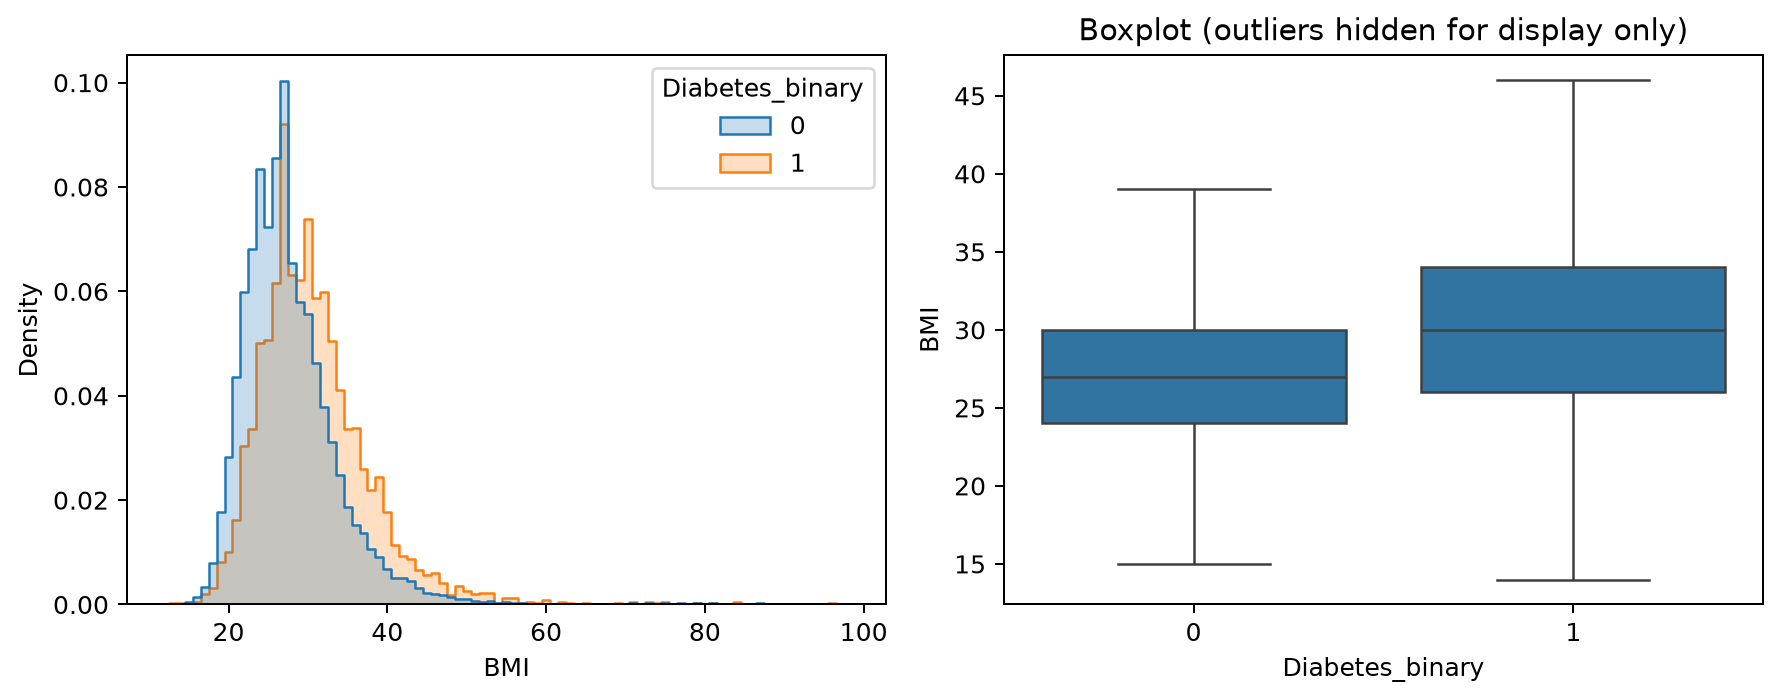
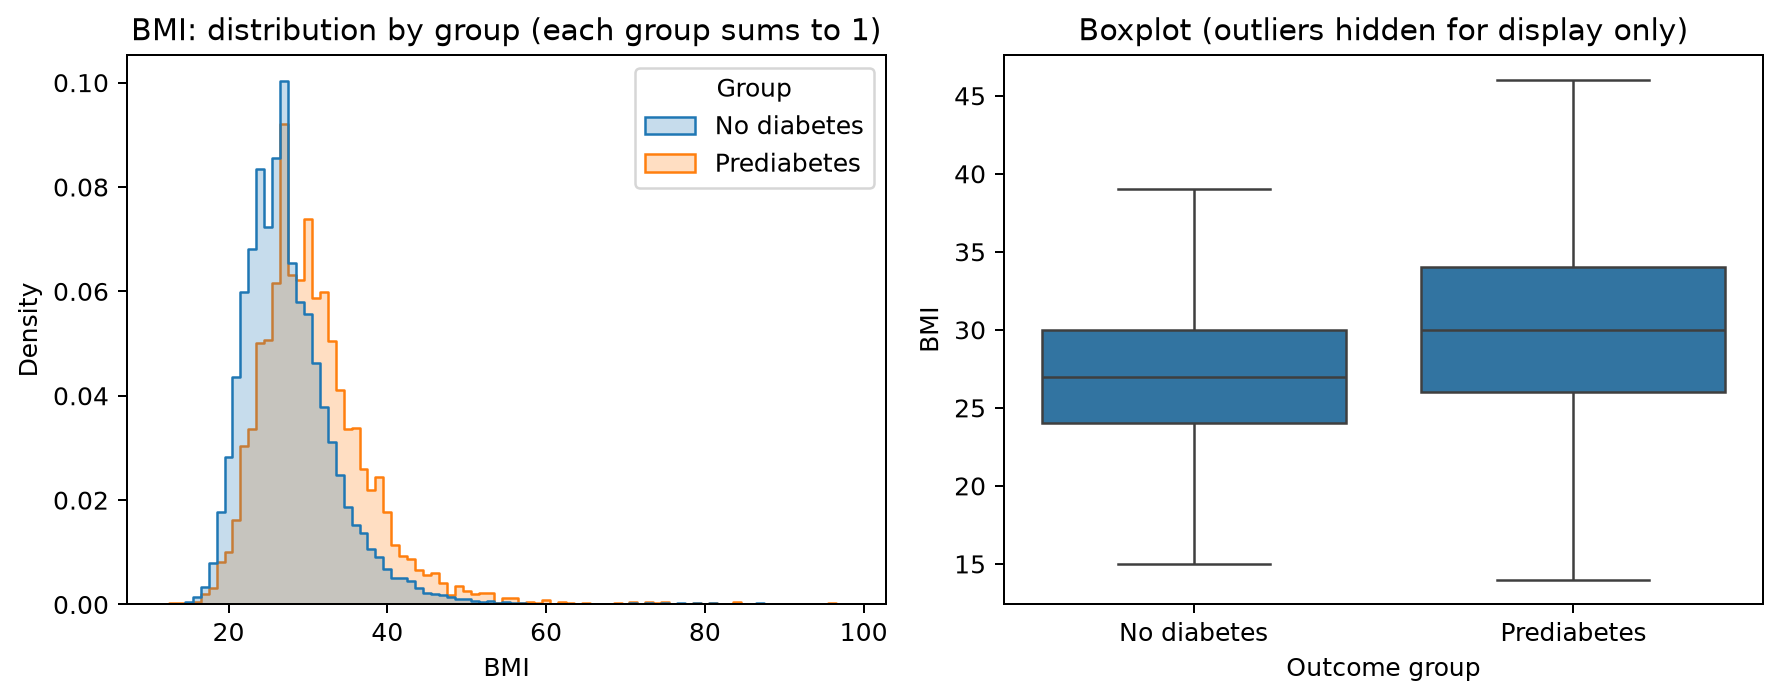
Regenerate the stage 1-4 reports with the current code
Every aggregate table and count is unchanged. New: review_flags in
cleaning.json, per-unit odds-ratio columns in hypotheses.csv, expanded
observations and relabelled plots. The provenance now names the Kaggle
archive, which holds the same three-class CSV as the original upload.

diff --git a/docs/validation.md b/docs/validation.md
@@ -26,8 +26,8 @@ Dependency checks and package builds also pass. Seaborn/Matplotlib emit upstream
 
 ## Remaining limits
 
-Both reports predate the latest code changes (plot labels, per-unit odds ratios, review flags) and must be regenerated with the README commands; their counts do not change.
+Both reports were regenerated with the current code (plot labels, per-unit odds ratios, review flags) during stage 8. Every count and summary table came out identical; see [the stages 5–8 record](modeling-validation.md#stage-8).
 
 Live UCI/Kaggle downloads still return HTTP 403. This prevents independent validation of the upstream binary release but does not block the three-class uploaded source analysis. The survey-year documentation discrepancy, self-report, unavailable survey weights/clusters, confounding, and lack of longitudinal outcomes remain limitations.
 
-Stages 5–8 and newer survey harmonization remain outside the current implementation. Later modeling must avoid leakage (including identical profiles), handle class imbalance and use evaluation measures appropriate to screening; results cannot be presented as future-onset prediction without suitable data. The combined positives include 35,346 people with a current diagnosis, so the model partly learns who already has diabetes.
+Stages 5–8 are now implemented; their checks are in [the stages 5–8 record](modeling-validation.md). Newer survey harmonization remains outside the project. Modeling must avoid leakage (including identical profiles), handle class imbalance and use evaluation measures appropriate to screening; results cannot be presented as future-onset prediction without suitable data. The combined positives include 35,346 people with a current diagnosis, so the model partly learns who already has diabetes.

diff --git a/reports/uploaded-combined/eda/observations.md b/reports/uploaded-combined/eda/observations.md
@@ -10,4 +10,8 @@ This is the observed table fraction, not a survey-weighted population estimate.
 - PhysHlth: median 0 in group 0; 1 in group 1.
 - GenHlth: median 2 in group 0; 3 in group 1.
 
+Strongest Spearman correlations with the outcome (descriptive; coded variables): GenHlth +0.296; HighBP +0.270; BMI +0.235; DiffWalk +0.222; HighChol +0.210.
+
+Largest unadjusted prevalence ratios among binary factors (code 1 vs code 0; not odds ratios): CholCheck 5.08x (16.25% vs 3.20%); HighBP 3.76x (27.12% vs 7.22%); DiffWalk 2.79x (33.76% vs 12.12%); HighChol 2.69x (24.69% vs 9.18%); HeartDiseaseorAttack 2.61x (35.75% vs 13.68%).
+
 Age and general health are ordinal codes. Correlations depend on coding; use Spearman as an ordered-rank complement to Pearson. Group differences can reflect age, healthcare access, and other confounding. No causal or diagnostic conclusions follow. Later modeling must keep hold-out data isolated; this full-cohort exploration is descriptive and must not be used to tune test-set decisions.

diff --git a/reports/prediabetes/eda/observations.md b/reports/prediabetes/eda/observations.md
@@ -10,4 +10,8 @@ This is the observed table fraction, not a survey-weighted population estimate.
 - PhysHlth: median 0 in group 0; 0 in group 1.
 - GenHlth: median 2 in group 0; 3 in group 1.
 
+Strongest Spearman correlations with the outcome (descriptive; coded variables): GenHlth +0.084; HighBP +0.077; BMI +0.073; HighChol +0.072; DiffWalk +0.061.
+
+Largest unadjusted prevalence ratios among binary factors (code 1 vs code 0; not odds ratios): CholCheck 3.25x (2.19% vs 0.67%); HighBP 2.81x (3.54% vs 1.26%); HighChol 2.62x (3.43% vs 1.31%); DiffWalk 2.45x (4.35% vs 1.77%); HeartDiseaseorAttack 2.11x (4.15% vs 1.96%).
+
 Age and general health are ordinal codes. Correlations depend on coding; use Spearman as an ordered-rank complement to Pearson. Group differences can reflect age, healthcare access, and other confounding. No causal or diagnostic conclusions follow. Later modeling must keep hold-out data isolated; this full-cohort exploration is descriptive and must not be used to tune test-set decisions.

diff --git a/reports/prediabetes/README.md b/reports/prediabetes/README.md
@@ -16,4 +16,4 @@ This eligibility rule is recorded in the source provenance, along with the exact
 
 The target is current self-reported prediabetes. This survey has no follow-up outcome to evaluate future diabetes onset, and existing diabetes is not treated as a negative control. Associations may reflect confounding or survey design. They are not causal, diagnostic, or predictive-performance estimates.
 
-The cleaned row-level table stays locally under `outputs/prediabetes/cleaned.csv` and is excluded from Git. Reproduce the run from the uploaded ZIP using the root README. Stages 5–8 have not been implemented.
+The cleaned row-level table stays locally under `outputs/prediabetes/cleaned.csv` and is excluded from Git. Reproduce the run from the uploaded ZIP using the root README. The modeling stages (5–7) for this endpoint are in [reports/modeling/prediabetes](../modeling/README.md).
